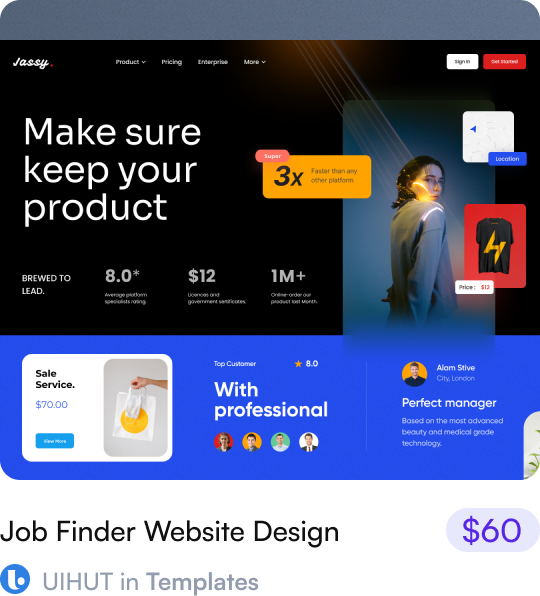
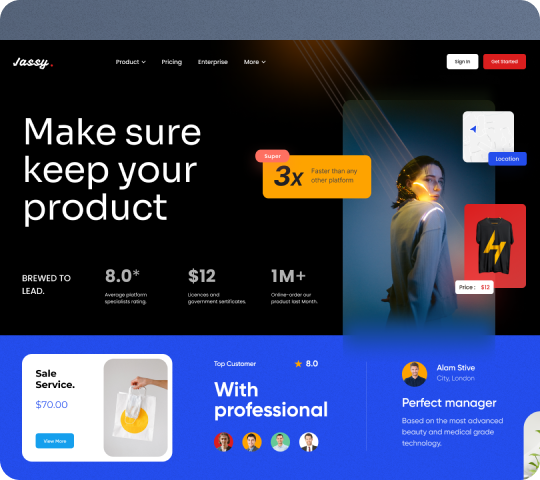
fix height wrap image

diff --git a/asset/css/main.css b/asset/css/main.css
@@ -217,7 +217,7 @@ a {
 .hero__img-wrap {
     position: relative;
     border-radius: 10px;
-    max-height: 240px;
+    height: 240px;
     overflow: hidden;
 }
 .hero__modal {
@@ -356,6 +356,9 @@ a {
         margin-top: 23px;
         grid-template-columns: 1fr;
         row-gap: 30px;
+    }
+    .hero__img-wrap {
+        height: 290px;
     }
     .hero__heading {
         font-size: 2rem;
